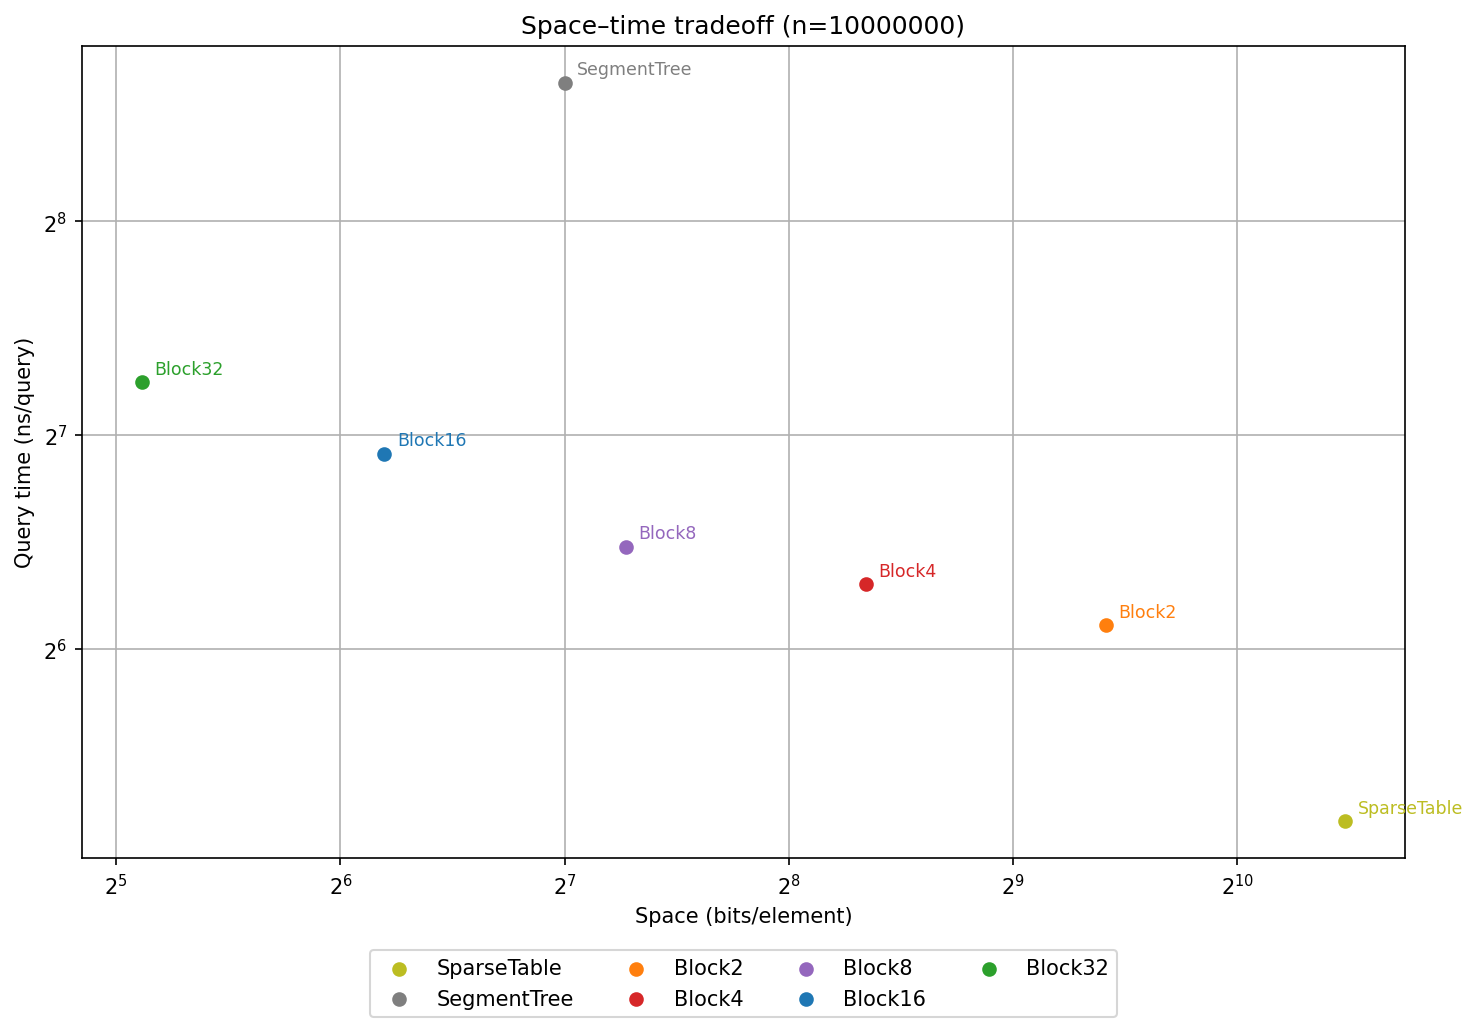
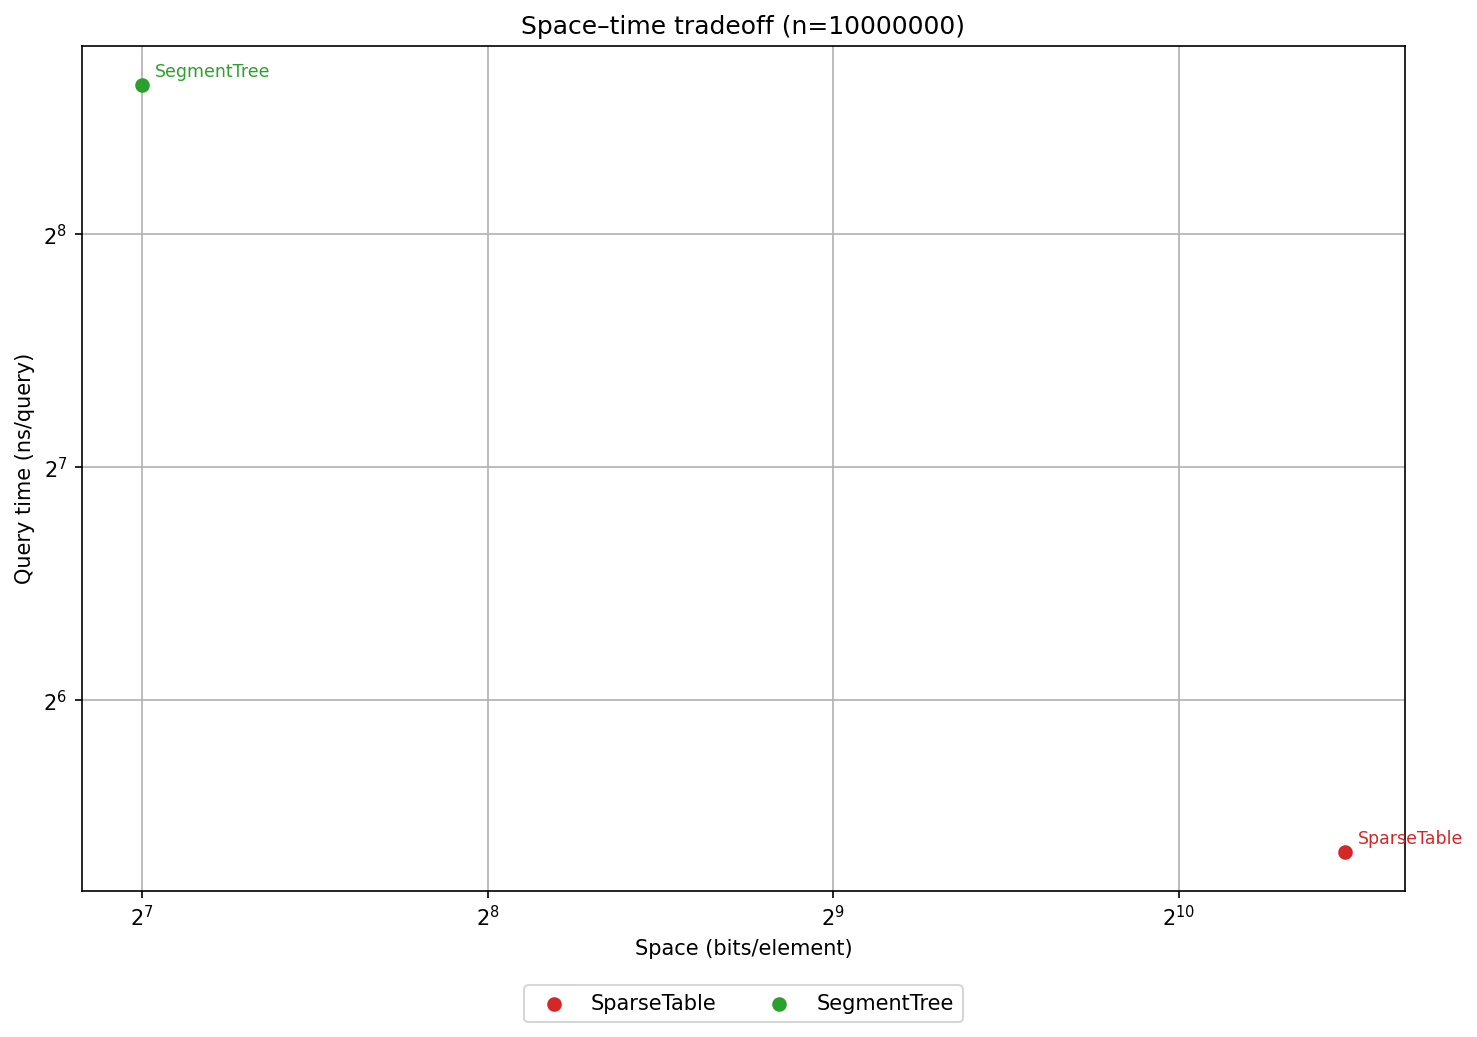
rewrite blocks

diff --git a/rmq-cpp/main.cpp b/rmq-cpp/main.cpp
@@ -305,6 +305,45 @@ struct Blocks
 	static Blocks build(const std::vector<uint64_t> &data)
 	{
 		Blocks rmq;
+		rmq.data = &data;
+
+		size_t n = rmq.data->size();
+		size_t amountOfBlocks = (n + BlockSize - 1) / BlockSize;
+		
+		size_t numberOfLevels = 0;
+		for (size_t x = amountOfBlocks; x > 0; x >>= 1)
+			++numberOfLevels;
+
+		rmq.table[0].resize(amountOfBlocks);
+
+		for (size_t block = 0; block < amountOfBlocks; ++block)
+		{
+			const size_t start = block * BlockSize;
+			const size_t end = std::min(start + BlockSize, n);
+
+			uint64_t blockMin = data[start];
+
+			for (size_t j = start + 1; j < end; ++j)
+			{
+				if (data[j] < blockMin)
+				{
+					blockMin = data[j];
+				}
+			}
+			rmq.table[0][block] = blockMin;
+		}
+
+		for (size_t l = 1; l < amountOfBlocks; l++)
+		{
+			size_t levelSize = n / BlockSize + 1 - (1ULL << l);
+			rmq.table[l].resize(levelSize);
+
+			size_t slidingWindowSize = 1ULL << l;
+
+			for (size_t i = 0; i < rmq.table[l - 1].size(); i += slidingWindowSize)
+			{
+			}
+		}
 
 		return rmq;
 	}
@@ -420,12 +459,6 @@ int main(int argc, char *argv[])
 		bench<PrecomputedNaive>(input);
 		bench<SparseTable>(input);
 		bench<SegmentTree>(input);
-
-		bench<Blocks<2>>(input);
-		bench<Blocks<4>>(input);
-		bench<Blocks<8>>(input);
-		bench<Blocks<16>>(input);
-		bench<Blocks<32>>(input);
 	}
 
 	return 0;
